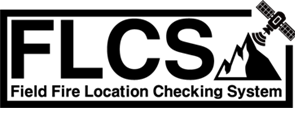
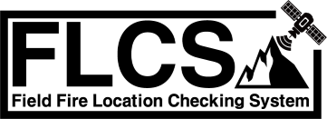
프로퍼티시포맷수정(DB영향x)_DB코드임시삭제_홈페이지아이콘수정(투명)

diff --git a/python_scripts/kml/processor.py b/python_scripts/kml/processor.py
@@ -25,7 +25,7 @@ from shapely.geometry import Polygon
 #######################################
 # P  A  N  E  L #
 d=0.1                                                                                           #d-value
-base="test"                                                                                    #베이스 폴더 지정[test, data]
+base="data"                                                                                    #베이스 폴더 지정[test, data]
 mp=True                                                                                       #멀티프로세싱 사용여부
 fig_evidence=False                                                                         #증거용플롯저장
 db_host='localhost'                                                                        #DB호스트
@@ -82,7 +82,6 @@ def GeoJSON_cvtr(file,fig):
         df_joined_points=pd.DataFrame()
         df_joined_points['x']=joined_points['y']
         df_joined_points['y']=joined_points['x']
-        dbs=DBSCAN(eps=d,min_samples=3).fit(df_joined_points[['x','y']]).labels_
         fets=[]
         # create model and prediction
         try:
@@ -110,8 +109,16 @@ def GeoJSON_cvtr(file,fig):
                         li.append(li[0])
                         print(Polygon(li).area)###############################산불의 규모 구할 수 있음
                         ######근?데 단위를 모름 근?데 일단 넣음
-                        prop_addr,prop_wdir,prop_wspd=getFcst.cord(Polygon(li).centroid)
-                        prop={"Description": str(prop_addr)+"의 산불 상황입니다<br> 풍향: "+str(prop_wdir) +", 풍속: "+str(prop_wspd)+", 규모: "+str(round(Polygon(li).area,4))}
+                        prop_addr,prop_wdir,prop_wspd=getFcst.cord(Polygon(li).centroid)                        
+                        prop={"Description":( 
+                        "<div style='font-family: gothic, arial, sans-serif;font-size: 15px; font-weight: bold; color:red; margin-bottom: 5px;'>"+str(prop_addr) +"</div><hr/>"+
+                        "<div style='font-family: gothic, arial, sans-serif;font-size:15px; font-weight: bold; color:#17002e;'>"+
+                            "<table>"+
+                                "<tr><td>풍향</td><td>"+str(prop_wdir) +"</td></tr>"+
+                                "<tr><td>풍속</td><td>"+str(prop_wspd)+"m/s</td></tr>"+
+                                "<tr><td>규모</td><td>"+str(round(Polygon(li).area,4))+"</td></tr>"+
+                            "</table>"+
+                        "</div>")}
                         geom={ "type": "Polygon","coordinates": [li]}
                         fet={"type": "Feature","geometry":geom,"properties": prop}
                         fets.append(fet) 
@@ -131,62 +138,7 @@ def EPSG_cvtr(file):
         jsons=jsons.to_crs('epsg:5179')
         jsons.to_file(base+'/geojson/UTMK/'+str(file.split('/')[2].split('\\')[1].split('.')[0])+'UTMK.geojson', driver='GeoJSON')
 #_______________________________________________________________________________  
-def insert_proc(coor, TBL, coorID):
-    sql = "insert into " + str(TBL) + "(ID, crdnt_X, crdnt_Y, DataCrawlingTime) value (%s, %s, %s, \""+ insert_time + "\")"
-    val = (coorID, coor[0], coor[1])
-    curs.execute(sql, val)
-    print(sql)
-    conn.commit()
-    return
-#_______________________________________________________________________________    
-def DB_insert(file_name):
-    if Dup_pass(file_name)==True:
-        global conn, curs, insert_time,db_host,db_user,db_pw,db_name,TBLname
-        insert_time=file_name.split('/')[2].split('\\')[1].replace("-", " 0").replace("_", "-").split('-')
-        insert_time = "-".join(insert_time[0:3])
-        print(insert_time)
-        TBLname='crdnttable'
-        with open(file_name, "r", encoding="utf8") as file:
-            contents = file.read()
-            json_data = json.loads(contents)
-        try:
-            # 접속 정보 설정 pw는 임의로 설정됨
-            conn = pymysql.connect(host=db_host, user=db_user, password=db_pw, db=db_name, charset='utf8')
-            curs = conn.cursor()
-        except:
-            print("예외2")
-            exit()
-        #json_loads로 불러온 데이터의 coordinates를 불러오면
-        #coor[0]은 해당 좌표 전체
-        #coor[0][i]은 해당 좌표 전체의 i번째 좌표
-        #coor[0][i][j]는 해당 좌표 전체의 i번째 j좌표 (x, y) 각각에 접근가능
-        dbinsert_num = 0
-        for i in range(len(json_data["features"])):
-            coor = (json_data["features"][i]["geometry"]["coordinates"])
-            prop = (json_data["features"][i]["properties"]) #아래에서 출력하지 않는 것 (공유할 때 생략)
-            for k in range(len(coor[0])):
-                print(coor[0][k])
-                print(TBLname)
-                print(i)
-                print("\n")
-                dbinsert_num+=1
-                print("db 삽입 시도 횟수 : " + str(dbinsert_num))
-                insert_proc(coor[0][k], TBLname, i)
-        #select_sql = "select * from " + TBLname
-        select_sql = "select * from crdnttable"
-        curs.execute(select_sql)
-        result = curs.fetchall()
-        print(result)
-        # coor = (json_data["features"][0]["geometry"]["coordinates"])
-        # with open('test.csv', 'w', newline='') as f:
-        #     for i in range(len(coor[0])):
-        #         for j in range(len(coor[0][i])):
-        #             writer = csv.writer(f)
-        #             writer.writerow(coor[0][i][j])
-        #insert_proc(ROOT_DIR, CSV, TBLname)
-        file.close()
-        conn.close()
-        exit()
+
 #_______________________________________________________________________________    
 
 #######################################
@@ -204,7 +156,7 @@ if __name__=='__main__':
     
     #데이터 필터링 처리해서 WGS84좌표로 GeoJSON 변환
     #data/kml_csv_kor_only/*.csv -> data/geojson/WGS84/*.geojson
-    #gdf=gpd.read_file(gdfloc).to_crs('epsg:4326') #셰이프파일 위치
+    gdf=gpd.read_file(gdfloc).to_crs('epsg:4326') #셰이프파일 위치
     print('gdf load Done')
     imported_files = glob.glob(base+"/kml_csv_kor_only/*result_korea.csv")
     for file in imported_files:
@@ -223,11 +175,11 @@ if __name__=='__main__':
 #    
 #    #DB에 자료 삽입
 #    #data/geojson/WGS84/*.geojson -> DataBase    
-    with concurrent.futures.ProcessPoolExecutor() as executor:
-        imported_files = glob.glob(base+'/geojson/WGS84/*.geojson')
-        if mp==False:
-            map(DB_insert, imported_files)
-        else:    
-            executor.map(DB_insert, imported_files)
-    print('DB_insert Done')    
+    #with concurrent.futures.ProcessPoolExecutor() as executor:
+    #    imported_files = glob.glob(base+'/geojson/WGS84/*.geojson')
+    #    if mp==False:
+    #        map(DB_insert, imported_files)
+    #    else:    
+    #        executor.map(DB_insert, imported_files)
+    #print('DB_insert Done')    
 ######################################            
